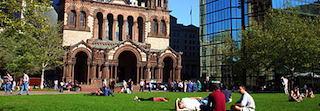
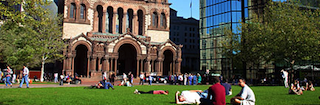
Cities page tweaks for images

diff --git a/style.css b/style.css
@@ -16,7 +16,7 @@
 /* Pad each list item and add dividers */
 .list li {
   position: relative;
-  padding: 8px 60px 72px 10px; /* Given extra right padding to accomodate counts, chevrons or buttons */
+  padding: 7px 60px 72px 10px; /* Given extra right padding to accomodate counts, chevrons or buttons */
   border-bottom: 1px solid rgba(0, 0, 0, .1);
 }
 
@@ -43,18 +43,26 @@
 	font-size: 24px;
 	background: -webkit-linear-gradient(top, rgba(255,255,255,0.7) 0%,rgba(255,255,255,0) 100%); /* Chrome10+,Safari5.1+ */
 	color: red; /*TODO: Figure out how to change the color*/
-	text-shadow:
-      0 1px 0 rgba(255, 255, 255, 0.5); /* highlight */
+	text-shadow: 0 1px 0 rgba(255, 255, 255, 0.5);
 }
 
 /* Background image for cities */
 .list li {
-	background-image: url('http://placehold.it/320x105'); /*http://placekitten.com/320/105*/
+	/*background-image: url('http://placehold.it/320x105');*/
+	background-image: url('http://placekitten.com/320/110');
 }
 
-/* Test actual image for Boston */
+/* Test actual image for cities */
 .list li.boston {
-	background-image: url('bos.png');
+	background-image: url('bos-low.png');
+}
+
+.list li.nyc {
+	background-image: url('nyc.png');
+}
+
+.list li.fiji {
+	background-image: url('fiji.png');
 }
 
 /* Row of profile photos */
@@ -66,6 +74,6 @@
 
 .face-row img {
 	padding: 2px;
-	background-color: white;
+	background: -webkit-linear-gradient(top, rgba(255,253,249,1) 0%,rgba(255,251,239,1) 100%); /* Chrome10+,Safari5.1+ */
 	-webkit-box-shadow: 0px 1px 3px rgba(0, 0, 0, 0.4);
 }

diff --git a/boston.html b/boston.html
@@ -1,0 +1,38 @@
+<html>
+<head>
+	<meta charset="utf-8">
+    <title>OceanRails Proto</title>
+
+    <!-- Sets initial viewport load and disables zooming  -->
+    <meta name="viewport" content="initial-scale=1, maximum-scale=1, user-scalable=no">
+
+    <!-- Makes your prototype chrome-less once bookmarked to your phone's home screen -->
+    <meta name="apple-mobile-web-app-capable" content="yes">
+    <meta name="apple-mobile-web-app-status-bar-style" content="black">
+
+    <!-- Set Apple icons for when prototype is saved to home screen -->
+    <link rel="apple-touch-icon-precomposed" sizes="114x114" href="touch-icons/apple-touch-icon-114x114.png">
+    <link rel="apple-touch-icon-precomposed" sizes="72x72" href="touch-icons/apple-touch-icon-72x72.png">
+    <link rel="apple-touch-icon-precomposed" sizes="57x57" href="touch-icons/apple-touch-icon-57x57.png">
+
+    <!-- Include the compiled Ratchet CSS -->
+    <link rel="stylesheet" href="ratchet.css">
+
+    <!-- Include the custom CSS -->
+    <link rel="stylesheet" href="style.css">
+
+    <!-- Include the compiled Ratchet JS -->
+    <script src="ratchet.js"></script>
+</head>
+<body>
+  <header class="bar-title">
+    <a class="button-prev" href="cities.html" data-transition="slide-out">
+      Back
+    </a>
+    <h1 class="title">Boston</h1>
+  </header>
+	<div class="content">
+    <p>Coming Soon</p>
+	</div><!-- .content -->
+</body>
+</html>

diff --git a/cities.html b/cities.html
@@ -41,26 +41,27 @@
 	<div class="content">
       <ul class="list">
       <li class="boston">
-        <a href="#">Boston</a>
+        <a href="boston.html" data-transition="slide-in">Boston</a>
         <div class="face-row">
             <img src="mikeroth.png" width="50px" height="50px" alt="profile picture">
-            <img src="http://placehold.it/50/50">
+            <img src="ryan.png" width="50px" height="50px" alt="profile picture">
         </div>
       </li>
-      <li>
+      <li class="nyc">
         <a href="#">New York City</a>
         <div class="face-row">
-            <img src="http://placehold.it/50/50">
+            <img src="joon.png" width="50px" height="50px" alt="profile picture">
             <img src="http://placehold.it/50/50">
             <img src="http://placehold.it/50/50">
             <img src="http://placehold.it/50/50">
             <img src="http://placehold.it/50/50">
         </div>
       </li>
-      <li>
+      <li class="fiji">
         <a href="#">Fiji</a>
         <div class="face-row">
-            <img src="http://placehold.it/50/50">
+            <!-- <img src='http://placekitten.com/50/50'> -->
+            <img src="ryan.png" width="50px" height="50px" alt="profile picture">
         </div>
       </li>
     </ul><!-- .list for cities-->
